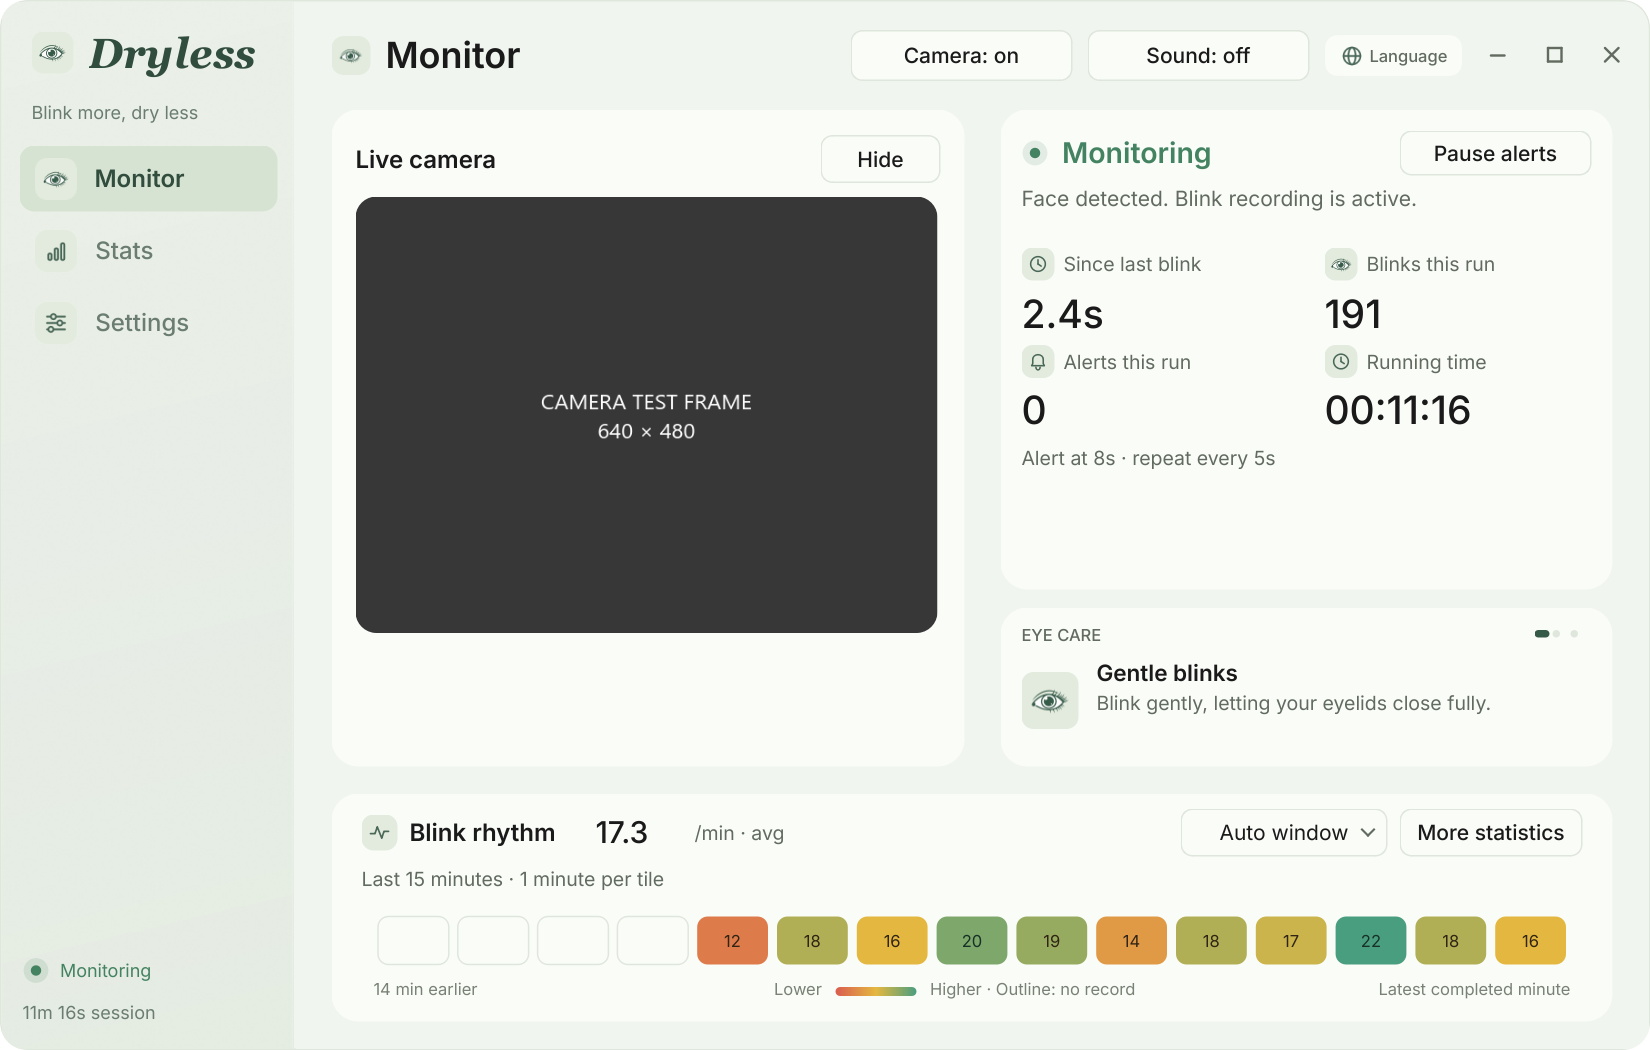
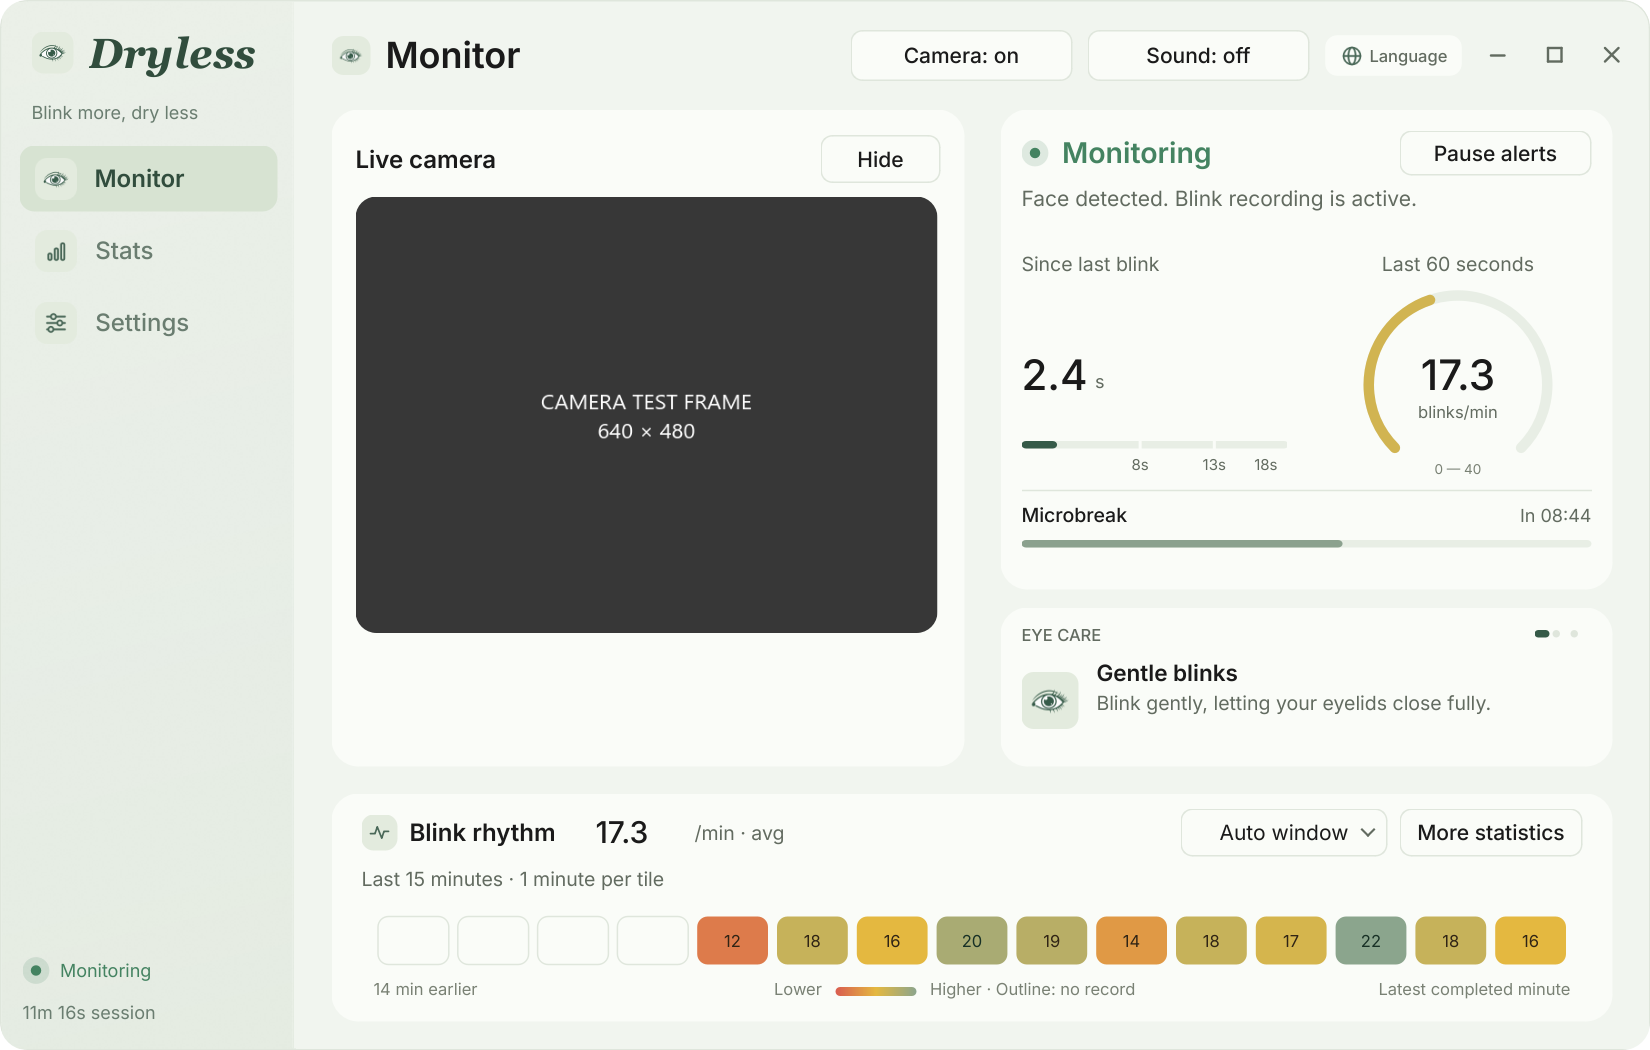
Document verified Windows rc.6 live metrics and handoff

diff --git a/docs/release/windows-rc6.md b/docs/release/windows-rc6.md
@@ -1,0 +1,21 @@
+# Windows rc.6 · 最近60秒与实时进度
+
+## 行为变化
+- 主指标替换为距上次眨眼的计时进度、最近60秒频率圆环、20分钟微休息进度。保留摄像头左栏、Tips卡片与下方分钟节律。
+- 频率从“累计/当前分钟混合并截断到30”改为真实滑动窗口；最近60秒有效识别不足30秒显示采集中，丢脸/摄像头关闭时不冒充当前数据，有效零次仍显示0。
+- live_metrics.py共用眨眼事件和有效识别时间计算滑动窗口与固定完整分钟。补正分钟边界事件归属，首个眨眼不再因初始化桶丢失；旧历史格式/分母不迁移。
+- 圆环与色块使用同一红、黄、灰调鼠尾草绿映射。圆环标出频率刻度，超过40时扩展刻度，不代表健康分数。
+- 未眨眼进度标记三档真实触发点，超过末档不循环；微休息或暂停时停止提醒进度。微休息用连续在场时间，不拿运行时长代替。
+- 节律与颜色图例取消悬停弹窗。点击/方向键选择分钟后，精确值直接显示在图内。历史气泡的数据明细仍保留。
+
+## 验证
+`python -B -m unittest discover -s tests -v`：30项通过，包括滑动过期、有效秒数、缺测/零值、分钟边界和不截断高频率。
+`python -B tools/qa_ui.py`：186项通过，中英、1100×700/1240×780、三页、无滚动/越界。
+`python -B tools/qa_live_metrics.py`：21项通过，真实暂停控制器、圆环范围、在场进度、语言稳定与无悬停窗。
+`python -B tools/qa_camera_windows.py`：38项通过，模拟摄像头启停/取消/释放。
+`python -B tools/qa_ui_consistency.py`：171项通过。
+`python -B tools/qa_reminders_windows.py`：66项通过，模拟提醒优先级与微休息。
+`python -B build.py` 与新包 `--self-test` 通过；提交、哈希和包内检查数见windows-rc6-validation.json。
+
+页面截图使用合成数据和占位摄像头画面，已人工查看中英首页及统计截图。未重新完成真人20分钟试用或Mac真机验收；F2其余缺口仍见MAC_REVIEW.md。
+新版在独立版本目录生成，桌面快捷方式指向rc.6，原始工程/图标与旧包保留。没有合并main或发布稳定版。

diff --git a/docs/START_HERE.md b/docs/START_HERE.md
@@ -3,11 +3,11 @@
 目标：在同一 GitHub Release 发布同一版本号的 Windows 与 Mac 应用。
 功能一致；整体布局一致；窗口、菜单栏、字体回退等细节遵循各自系统。
 
-## Windows 已实施更新（rc.5）
-顶部摄像头/声音统一为“名称：开/关”，同尺寸同样式，删除它们与Tips的说明悬停框。
-新增现有原眼睛的匹配闭眼资源：运行睁眼，未运行闭眼，页面/侧栏/任务栏/托盘同步；暂停不等于关闭。
-Tips独立卡片沿用整体底色与文字色，无另设绿色描边，远眺为连续地平线图标。仍为三条短文案、20秒自动轮播。
-见 [release/windows-rc5.md](release/windows-rc5.md)。保留检测、统计、声音、20分钟微休息与三页结构；F2缺口未因此完成。
+## Windows 已实施更新（rc.6）
+首页增加最近60秒滑动频率圆环、距上次眨眼进度与真实连续在场的微休息进度；替换原大号累计指标。
+主频率与下方完整分钟采用相同有效秒数口径，三处图表共用柔和红黄绿；缺测留空、真实零保留、不截断到30。
+节律色块及颜色图例不弹悬停窗，精确分钟值可在图内查看。其余沿用rc.5的顶部控件、眼睛状态和Tips。
+见 [release/windows-rc6.md](release/windows-rc6.md)；新增实时指标合同见FEATURE_PARITY.md第3节。F2其余缺口不因此标为完成。
 
 ## 当前接力顺序（2026-09-13初次审查记录）
 0. 暂不合并/替换 main，不公开正式 Release。
@@ -29,7 +29,7 @@ GitHub 分支/PR + 本目录交接文档是共同记录。登录相同 Codex 账
 需要对方处理的问题写在 PR 描述/评论中，明确文件、复现步骤与预期行为。
 不要同时修改同一共享模块；Mac API 适配尽量放独立模块。
 
-版本：version.py；候选：0.2.0-rc.5；正式目标：0.2.0。
+版本：version.py；候选：0.2.0-rc.6；正式目标：0.2.0。
 目前 Mac 尚未验收；不得把 Windows 构建成功称为双平台完成。
 
 ## 当前布局参考（合成测试数据和摄像头占位图）
